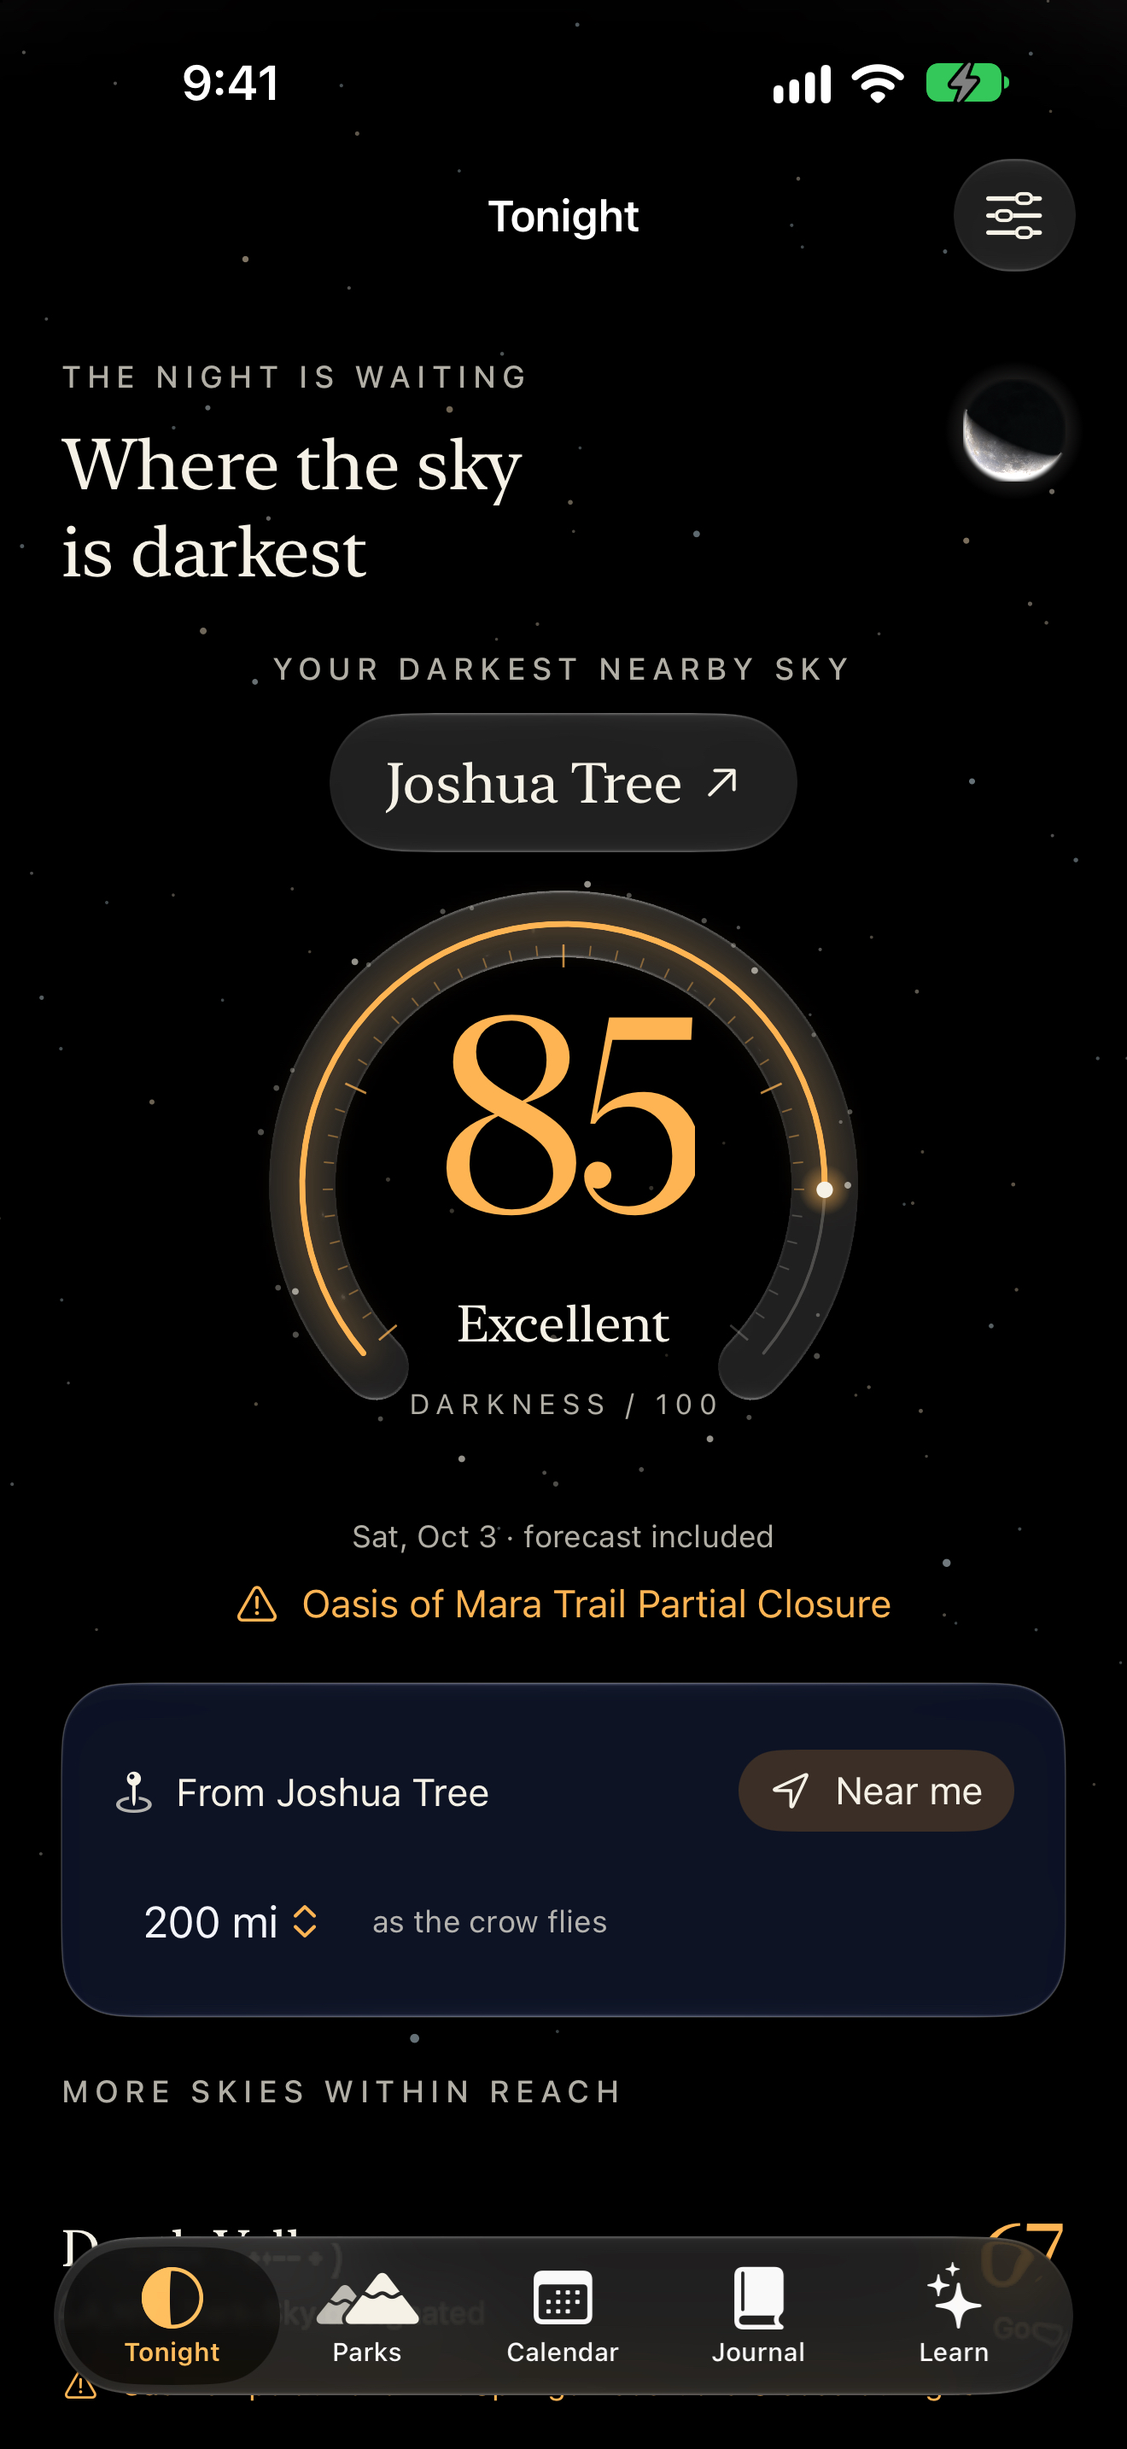
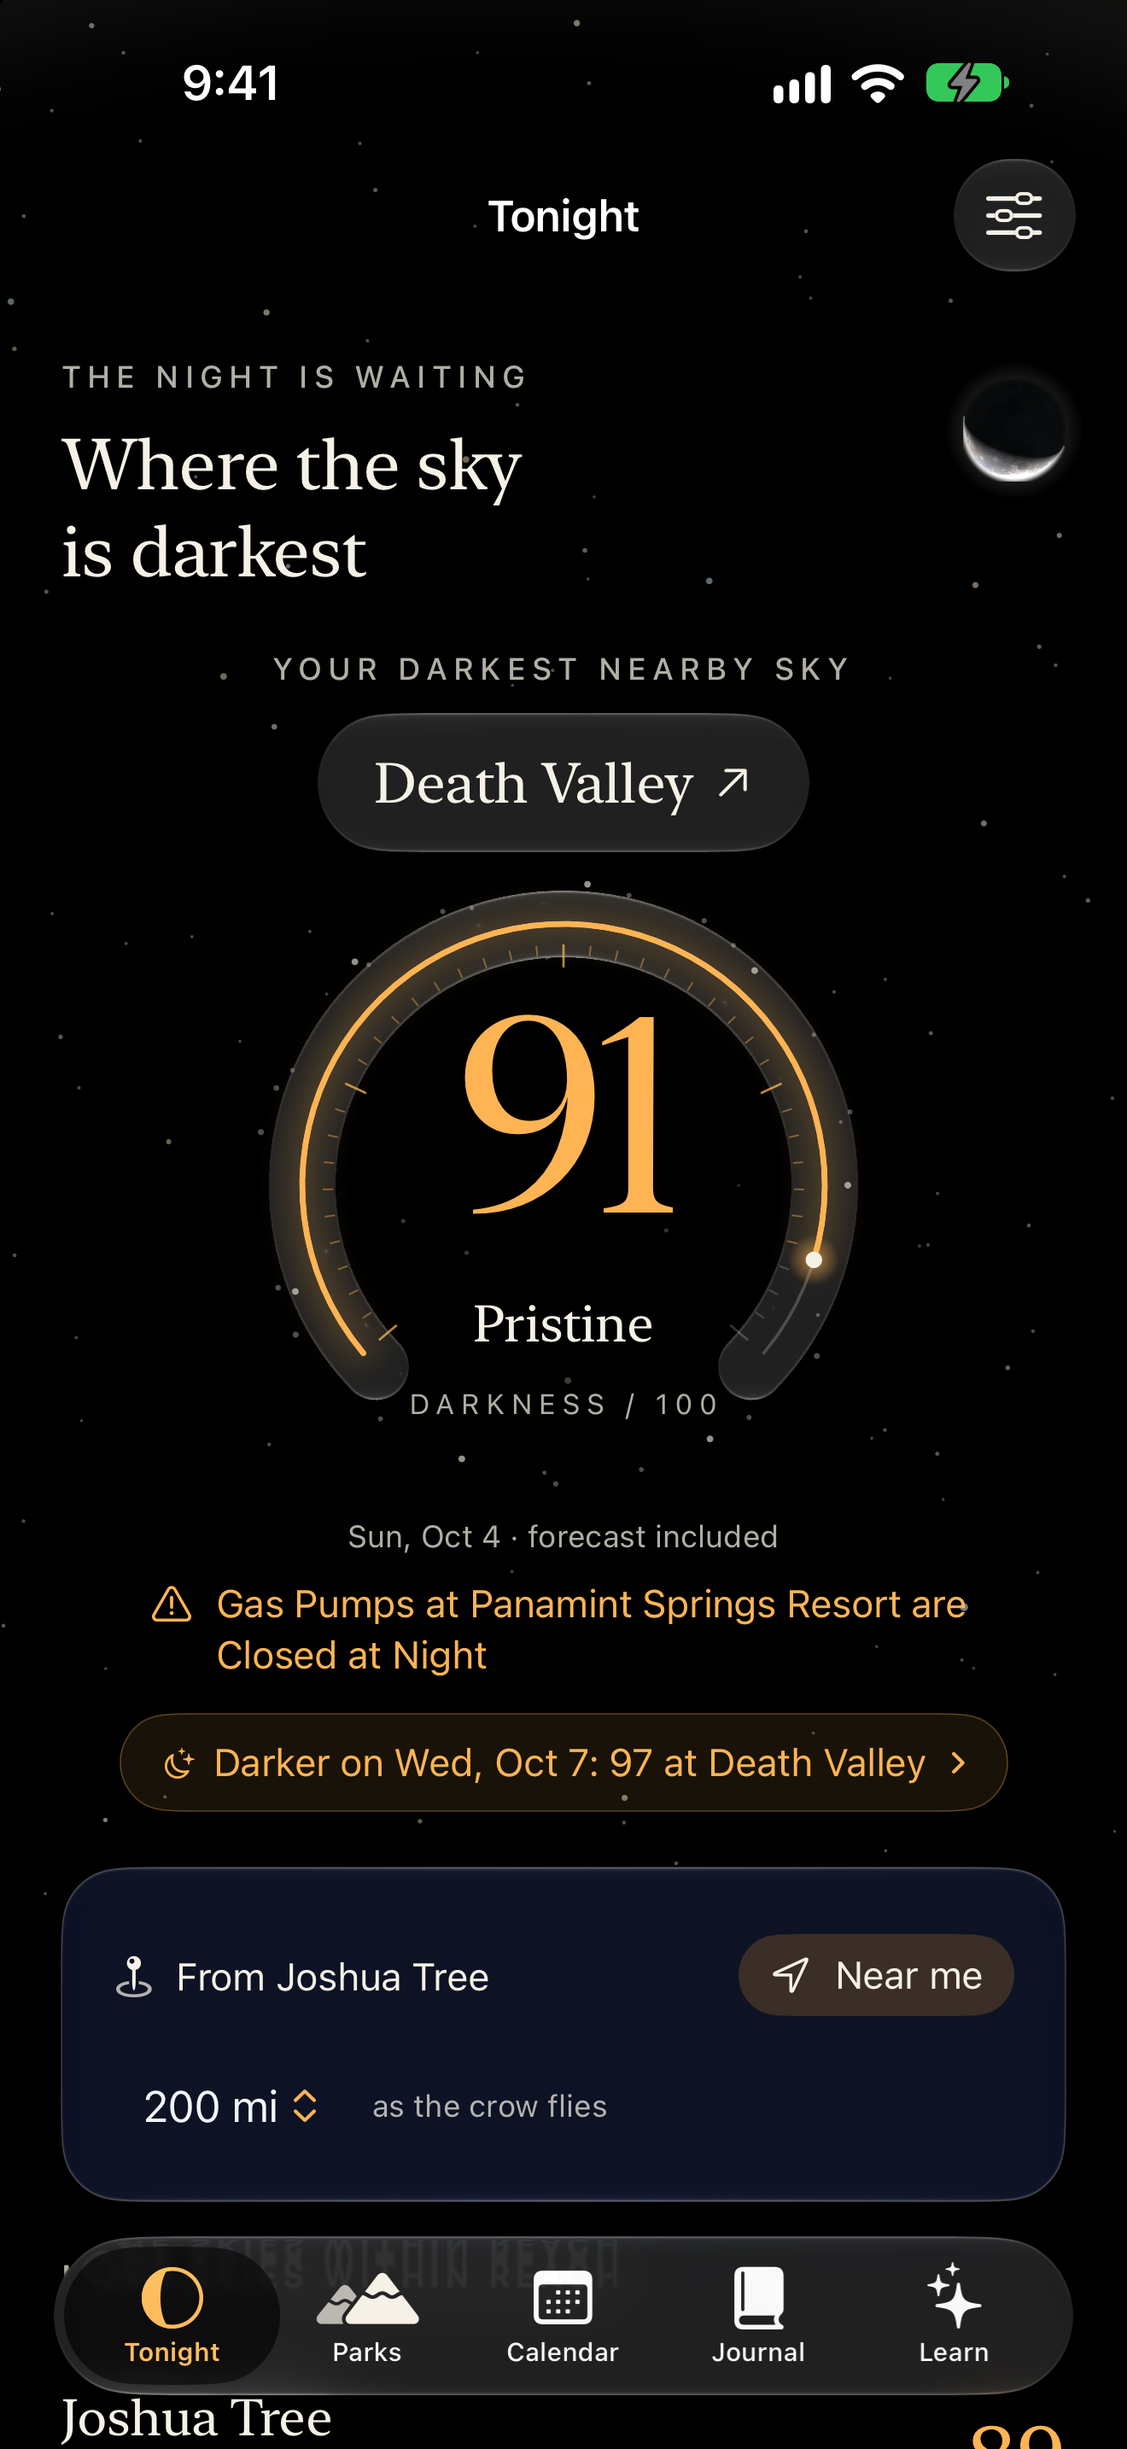
Fact-based score breakdown, recaptured store frames; build 5
The breakdown names the input each part was scored from, over that
park's sky for that night, with unknown clouds kept as a dashed row.
Store screenshots and captioned frames show the new readout and week
strip. Verified on iOS 27.0 and 26.5: zero warnings, all tests and both
accessibility audits pass; Release archive 1.0 (5) passes
verify_release.py.

diff --git a/Nyx/Views/ParkViews.swift b/Nyx/Views/ParkViews.swift
@@ -202,43 +202,63 @@ struct ScoreBreakdownView: View {
     @Environment(\.dismiss) private var dismiss
     let night:Night
     var isTonight=true
+    @ScaledMetric(relativeTo:.largeTitle) private var numeralSize=72.0
     var body: some View {
-        ScrollView { VStack(alignment:.leading,spacing:24) {
-            Text("A number with a reason").font(.system(.largeTitle,design:.serif))
-            Text("\(night.score.value)/100 · \(night.score.band.label)").font(.system(.title,design:.serif)).foregroundStyle(palette.accent)
-            row("Moonlight",points:night.score.moonPoints,of:40,detail:String(localized:"Illumination and the part of true darkness when the Moon is below the horizon."))
-            if let cloud=night.score.cloudPoints { row("Cloud cover",points:cloud,of:25,detail:String(localized:"The hourly forecast averaged over the complete dark window.")) }
-            row("Light pollution",points:night.score.bortlePoints,of:20,detail:String(localized:"A conservative Bortle estimate. It is not a measurement."))
-            row("Length of darkness",points:night.score.lengthPoints,of:15,detail:String(localized:"Astronomical darkness, with ten hours receiving full credit."))
+        ScrollView { VStack(alignment:.leading,spacing:26) {
+            VStack(alignment:.leading,spacing:10) {
+                Eyebrow(text:"\(night.park.shortName) · \(night.park.dayLabel(night.id))")
+                Text("A number with a reason").font(.system(.largeTitle,design:.serif)).fixedSize(horizontal:false,vertical:true)
+            }
+            HStack(alignment:.firstTextBaseline,spacing:12) {
+                Text("\(night.score.value)").font(.system(size:numeralSize,weight:.light,design:.serif)).tracking(-3).foregroundStyle(palette.accent)
+                VStack(alignment:.leading,spacing:2) { Text(night.score.band.label).font(.system(.title2,design:.serif)); Text("out of 100").font(.caption).foregroundStyle(palette.muted) }
+            }
+            .accessibilityElement(children:.combine)
+            row("Moonlight",points:night.score.moonPoints,of:40,fact:moonFact,detail:String(localized:"Illumination and the part of true darkness when the Moon is below the horizon."))
+            row("Cloud cover",points:night.score.cloudPoints,of:25,fact:night.cloudCover.map { String(localized:"\(Int($0.rounded()))% average cover across the dark window.") } ?? String(localized:"No forecast covers this night yet."),detail:String(localized:"The hourly forecast averaged over the complete dark window."))
+            row("Light pollution",points:night.score.bortlePoints,of:20,fact:String(localized:"Bortle class \(night.park.bortleEstimate) of 9, estimated."),detail:String(localized:"A conservative Bortle estimate. It is not a measurement."))
+            row("Length of darkness",points:night.score.lengthPoints,of:15,fact:night.sky.darkHours>0 ? String(localized:"\(darkness) of true darkness.") : String(localized:"No true darkness."),detail:String(localized:"Astronomical darkness, with ten hours receiving full credit."))
             if !night.score.hasForecast { Text("Clouds are unknown. The remaining components are scaled to 100. This estimate may change when a forecast arrives.").foregroundStyle(palette.muted) }
             if night.sky.darkHours==0 { Text(isTonight ? String(localized:"No true darkness tonight at this latitude. The score is capped below 40.") : String(localized:"No true darkness on this night at this latitude. The score is capped below 40.")).foregroundStyle(palette.accent) }
             else if ScoreEngine.cap(darkHours:night.sky.darkHours)<100 { Text(isTonight ? String(localized:"True darkness lasts only \(darkness) tonight, so the score is held to \(ScoreEngine.cap(darkHours:night.sky.darkHours)) or less.") : String(localized:"True darkness lasts only \(darkness) on this night, so the score is held to \(ScoreEngine.cap(darkHours:night.sky.darkHours)) or less.")).foregroundStyle(palette.accent) }
             Text("The score is a planning guide, not a guarantee of visibility or safe access.").font(.caption).foregroundStyle(palette.muted)
             ShareCardButton(night:night)
-        }.padding(24) }.background(Color.black).foregroundStyle(palette.ink).navigationTitle("Score breakdown").navigationBarTitleDisplayMode(.inline)
+        }.padding(24) }
+        .background(NightBackground(score:night.score.value,park:night.park,night:night.id)).foregroundStyle(palette.ink).navigationTitle("Score breakdown").navigationBarTitleDisplayMode(.inline)
             .toolbar { ToolbarItem(placement:.confirmationAction) { Button("Done") { dismiss() } } }
+    }
+    private var moonFact:String {
+        let lit=String(localized:"\(night.sky.moon.name), \(Int((night.sky.moon.illumination*100).rounded()))% lit.")
+        guard night.sky.darkHours>0 else { return lit }
+        return lit+" "+String(localized:"Below the horizon for \(Int((night.sky.moonBelowFraction*100).rounded()))% of true darkness.")
     }
     private var darkness:String { Duration.seconds(night.sky.darkHours*3600).formatted(.units(allowed:[.hours,.minutes],width:.wide)) }
     /// `weight` is the component's share of 100; without clouds the others are scaled up to fill it.
-    private func row(_ title:LocalizedStringKey,points:Double,of weight:Double,detail:String)->some View {
-        let maximum=night.score.hasForecast ? weight : weight/0.75
-        return VStack(alignment:.leading,spacing:8) {
+    /// Each part states the fact it was scored from, then how it is scored.
+    private func row(_ title:LocalizedStringKey,points:Double?,of weight:Double,fact:String,detail:String)->some View {
+        let maximum=night.score.hasForecast || points==nil ? weight : weight/0.75
+        return VStack(alignment:.leading,spacing:9) {
             ViewThatFits(in:.horizontal) {
                 HStack(alignment:.firstTextBaseline) { Text(title).font(.headline);Spacer();amount(points,of:maximum) }
                 VStack(alignment:.leading,spacing:4) { Text(title).font(.headline);amount(points,of:maximum) }
             }
             GeometryReader { proxy in
                 ZStack(alignment:.leading) {
-                    Capsule().fill(palette.line)
-                    Capsule().fill(palette.accent).frame(width:proxy.size.width*min(1,max(0,points/maximum)))
+                    if let points {
+                        Capsule().fill(palette.line)
+                        Capsule().fill(palette.accent).frame(width:points>0 ? max(4,proxy.size.width*min(1,points/maximum)) : 0)
+                    } else { Capsule().stroke(palette.line,style:StrokeStyle(lineWidth:1,dash:[2,3])) }
                 }
             }.frame(height:4).accessibilityHidden(true)
-            Text(detail).font(.subheadline).foregroundStyle(palette.muted)
+            Text(fact).font(.system(.body,design:.serif)).fixedSize(horizontal:false,vertical:true)
+            Text(detail).font(.footnote).foregroundStyle(palette.muted).fixedSize(horizontal:false,vertical:true)
         }
+        .padding(.vertical,2)
         .accessibilityElement(children:.combine)
     }
-    private func amount(_ points:Double,of maximum:Double)->some View {
-        Text("\(Int(points.rounded())) of \(Int(maximum.rounded()))").font(.system(.title3,design:.serif)).foregroundStyle(palette.accent)
+    @ViewBuilder private func amount(_ points:Double?,of maximum:Double)->some View {
+        if let points { Text("\(Int(points.rounded())) of \(Int(maximum.rounded()))").font(.system(.title3,design:.serif)).foregroundStyle(palette.accent) }
+        else { Text("Unknown").font(.system(.title3,design:.serif)).foregroundStyle(palette.muted) }
     }
 }
 #Preview("Park row") { if let p=PlanModel().home { ParkRow(night:PlanModel().night(p)).padding().background(.black) } }

diff --git a/NyxUITests/AccessibilityAuditTests.swift b/NyxUITests/AccessibilityAuditTests.swift
@@ -59,10 +59,13 @@ final class AccessibilityAuditTests:XCTestCase {
             // Night-vision score numerals: the red is 6.2:1 on black (large text needs 3:1); the audit samples the
             // anti-aliased diagonal of thin serif digits such as "77". Checked by eye in a captured frame.
             let numeral = !(issue.element?.label ?? "").isEmpty && (issue.element?.label ?? "").allSatisfy(\.isNumber)
+            // Parks band labels under each score ("Pristine", "Estimate"): starlight at 72% on black is about 11:1; the audit
+            // samples a real star that can fall inside the glyph box. Checked by eye in a zoomed iOS 26.5 capture (2026-10-05).
+            let bandLabel=["Pristine","Excellent","Good","Fair","Poor","Estimate"].contains(issue.element?.label ?? "")
             // iOS 27 draws system toolbar buttons (Done, Cancel, Save, Edit) on glass the audit cannot sample;
             // they render light-on-dark and legible (checked by screenshot). iOS 26 passes the same buttons.
             let toolbarButton=issue.element?.elementType == .button && !navigationBar.isNull && frame.intersects(navigationBar)
-            return !visible || issue.compactDescription.contains("nearly") || (screen=="parks" && numeral) || toolbarButton
+            return !visible || issue.compactDescription.contains("nearly") || (screen=="parks" && (numeral || bandLabel)) || toolbarButton
         case .textClipped:
             // Scrolled below the fold or behind the tab bar, not truncated; the system search field's placeholder;
             // or PhotosPicker's own "Choose photos" label, which renders in full (checked by screenshot).

diff --git a/Scripts/make_store_frames.swift b/Scripts/make_store_frames.swift
@@ -21,7 +21,7 @@ let frames = [
     Frame(source: "03-calendar-6.9.png", output: "03-calendar.png",
           eyebrow: "BEST NIGHTS", headline: "Choose the night\nworth the drive."),
     Frame(source: "04-parks-6.9.png", output: "04-parks.png",
-          eyebrow: "63 NATIONAL PARKS", headline: "Every park,\nscored every night."),
+          eyebrow: "63 NATIONAL PARKS", headline: "Every park,\nand its best night this week."),
     Frame(source: "06-learn-6.9.png", output: "05-night-vision.png",
           eyebrow: "NIGHT VISION", headline: "Red light that keeps\nyour eyes dark-adapted.", accent: signalRed),
     Frame(source: "05-journal-6.9.png", output: "06-journal.png",

diff --git a/Nyx/DesignSystem/ScoreReadout.swift b/Nyx/DesignSystem/ScoreReadout.swift
@@ -75,7 +75,7 @@ struct ScoreReadout: View {
                 ZStack(alignment:.leading) {
                     if let fraction {
                         Capsule().fill(palette.line)
-                        Capsule().fill(palette.accent).frame(width:max(3,proxy.size.width*fraction))
+                        Capsule().fill(palette.accent).frame(width:fraction>0 ? max(3,proxy.size.width*fraction) : 0)
                             .shadow(color:palette.nightVision ? .clear : palette.accent.opacity(0.55),radius:3)
                     } else {
                         Capsule().stroke(palette.line,style:StrokeStyle(lineWidth:1,dash:[2,3]))

diff --git a/PHASE_STATUS.md b/PHASE_STATUS.md
@@ -1,3 +1,20 @@
+# Nyx handoff — 2026-10-05 (design pass, build 5)
+
+A design pass aimed at the Apple Design Award bar: every screen now answers "when" as well as "where", and every number arrives with its reason. Logged under "Design pass" in `DECISIONS.md`.
+
+- **Park detail:** a four-part score readout (Moon, Clouds, Sky glow, Dark hours) sits under the gauge and glides as nights are scrubbed; it opens the breakdown.
+- **Score breakdown:** each part states the fact it was scored from, over that park's real sky for that night; unknown clouds stay visible as a dashed row.
+- **Parks and Tonight lists:** a seven-night strip per park names its best night ("Best Fri · 94").
+- **Tonight:** "Darker on Wed, Oct 7: 97 at Death Valley" names the best night ahead in reach and opens it.
+- **Journal:** cards show the Moon's phase that night; an entry shows the lit Moon and stands under that park's real stars that night.
+- Store screenshots and captioned frames recaptured with live data. Build number is **5** (`project.yml`); build 4 in App Store Connect predates this pass.
+
+**Verified 2026-10-05:** zero warnings; iPhone 18 Pro / iOS 27.0 and iPhone 17 Pro / iOS 26.5 — all 39 tests including both accessibility audits pass (the audit caught a fixed-size numeral in the new breakdown, now Dynamic Type-scaled). Touched screens captured and reviewed: detail (live, no forecast, night vision, AX5), Parks (live, AX5), Tonight, journal list and entry, breakdown (standard and polar), store frames.
+
+**Next starting point:** archive and upload build 1.0 (5) in place of build 4 (INPUT_NEEDED 2), then the on-device night review (INPUT_NEEDED 1).
+
+---
+
 # Nyx handoff — 2026-10-04 (fresh audit, build 4)
 
 A fresh four-part audit (astronomy math against PyEphem, services and concurrency, UI and accessibility, configuration and release). All confirmed findings are fixed and logged under "Fresh audit" in `DECISIONS.md`. Highlights: Alaska moonrise/moonset accuracy (was up to 41 minutes off), Milky Way guidance at high latitude, a privacy-preserving all-park forecast request, careful use of the shared NPS key, offline data moved out of Caches, reminder calendar and race fixes, and a set of night-vision, VoiceOver and time-river corrections.

diff --git a/DECISIONS.md b/DECISIONS.md
@@ -178,3 +178,6 @@ Goal: every screen answers both "where" and "when", and every number arrives wit
 - **Darker night ahead** (Tonight): under the hero, a quiet amber capsule names the darkest of the next six nights across every park in reach, when it beats tonight's best by 5 or more ("Darker on Wed, Oct 7: 97 at Death Valley"); it opens that park on that night.
 - **Journal remembers the sky**: cards show the Moon's phase that night over that park and a line like "Bortle 3 observed · Waning crescent, 22% lit"; an entry shows the lit Moon (shader) and stands over that park's real stars on that night instead of the starting park's sky.
 - Parks' "Scores without a cloud forecast are marked as estimates" note appears only when some row is an estimate. Viewing-spot coordinates are selectable with a "Copy coordinates" menu, for offline map apps; no Maps hand-off, so the app still names no host beyond the two in the brief.
+- **Score breakdown states its facts**: each part now names the input it was scored from in serif ("Waning crescent, 32% lit. Below the horizon for 59% of true darkness." / "12% average cover across the dark window." / "Bortle class 3 of 9, estimated." / "9 hours, 32 minutes of true darkness."), then how it is scored. Clouds stay as a dashed "Unknown" row instead of vanishing. The sheet stands over that park's real sky for that night, with the score as a serif hero numeral. On nights without true darkness the moon-below percentage is omitted (it was "0% of true darkness"). Meters with zero points draw no fill, here and in the readout.
+- Store frames recaptured (iPhone 18 Pro Max, iOS 27.0, live data) so the score and Parks frames show the readout and week strip; the Parks caption is now "Every park, and its best night this week."
+- Accessibility audit: Parks band labels ("Pristine", "Estimate"…) join the Parks numerals as a documented contrast exclusion. With the week strip the rows moved, and on iOS 26.5 a faint real star now falls inside the "P" of one label; starlight at 72% on black is about 11:1 and the label reads cleanly in a zoomed capture. A black text halo was tried and dropped: it did not change the measurement and cost a shadow pass on 63 rows.

diff --git a/INPUT_NEEDED.md b/INPUT_NEEDED.md
@@ -9,7 +9,8 @@ Everything else is built, verified and documented. Each step below needs your Ap
    - Paste the description, keywords, subtitle and URLs from `SUBMISSION.md`. If you entered the description before, paste it again; it gained two sentences.
    - App Privacy: "No, we do not collect data from this app". Reasoning is in `PRIVACY.md`.
    - Upload the six 6.9-inch screenshots in `Store/Screenshots/` (no alpha channel), replacing any uploaded earlier.
-   - **Build 1.0 (4) is uploaded** (2026-10-04, with the NPS key; builds 1–3 are superseded). When it finishes processing: test it in TestFlight, select it on the version page, then Submit for Review.
+   - **Upload build 1.0 (5)** (2026-10-05 design pass: score readout, week strip, fact-based breakdown, journal sky). In Xcode: Product → Archive → Distribute App → App Store Connect → Upload. Builds 1–4 are superseded. When it finishes processing: test it in TestFlight, select it on the version page, then Submit for Review.
+   - Upload the six captioned frames in `Store/Framed/6.9-inch/` (and `6.5-inch/`), recaptured 2026-10-05, replacing earlier ones.
 
 3. **Ask NPS for a higher request limit for the Nyx key** (optional before launch, needed if Nyx grows). Every install shares the one key, and NPS keys default to about 1,000 requests an hour. Nyx now sends only alerts for most screens, at most one request per park every ten minutes, but a popular launch could still reach the limit; Nyx then quietly keeps the last known alerts and says when they were checked. Use the contact link on developer.nps.gov, name the key, and describe the use (a free app reading park alerts and night-sky events). Only the key's owner can ask.
 
